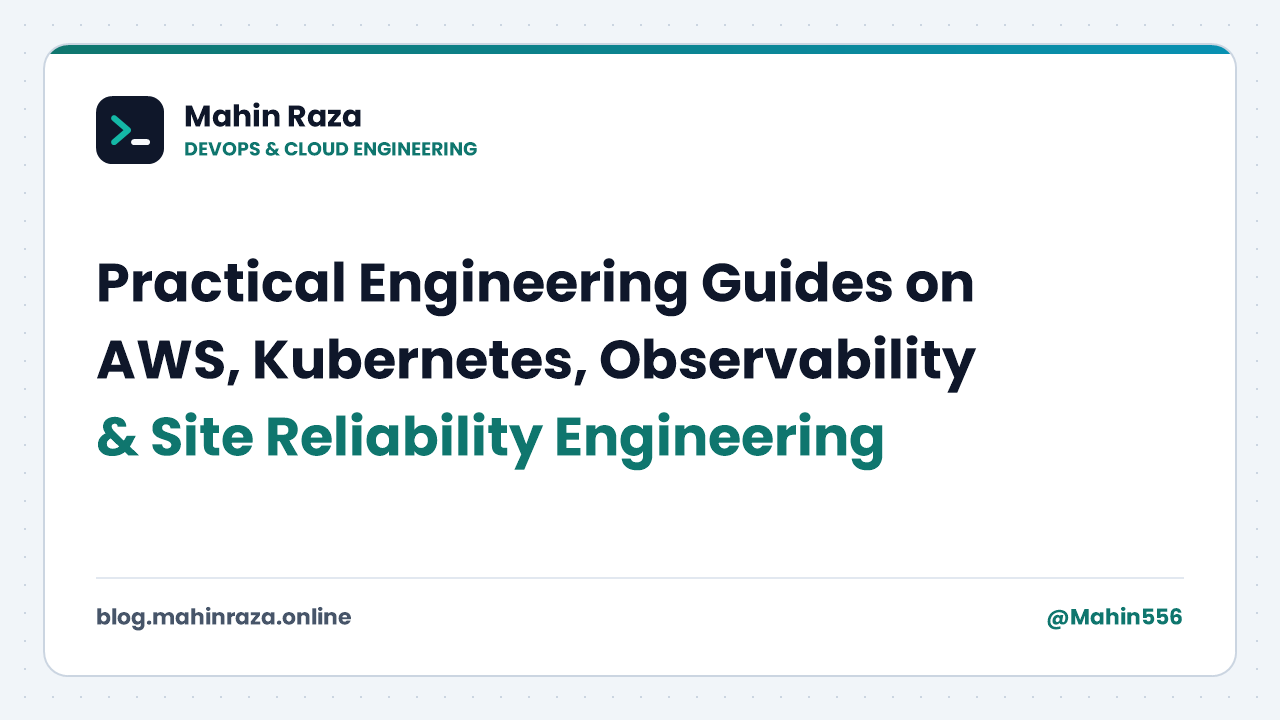
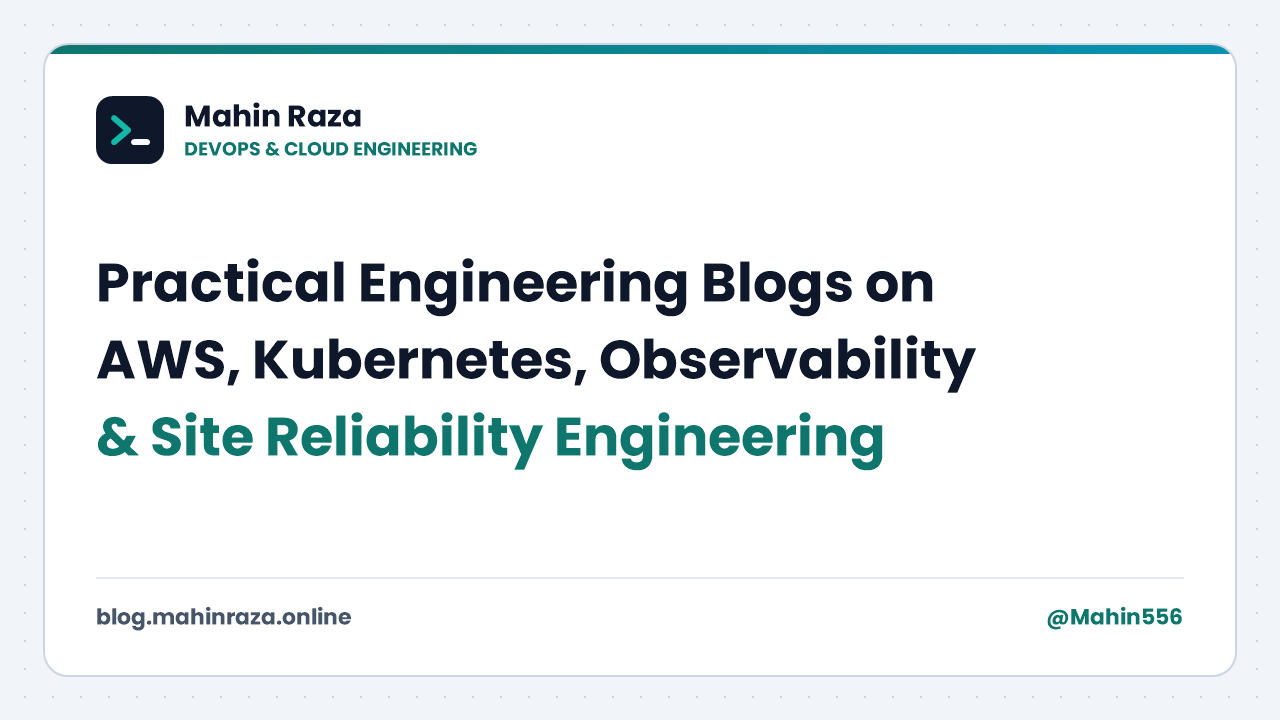
refactor: Update terminology from "Guides" to "Blogs" across the application

Changed region(s): [[0.5312, 0.3667, 0.7812, 0.4583]]

diff --git a/src/lib/site.ts b/src/lib/site.ts
@@ -5,7 +5,7 @@ export const SITE_CONFIG = {
   brandName: 'Mahin Raza',
   shortRole: 'DevOps & Cloud Engineering',
   description:
-    'Practical engineering guides on AWS, Kubernetes, Observability, OpenTelemetry, Prometheus, Incident Response, and Site Reliability Engineering by Mahin Raza.',
+    'Practical engineering blogs on AWS, Kubernetes, Observability, OpenTelemetry, Prometheus, Incident Response, and Site Reliability Engineering by Mahin Raza.',
   repoUrl: 'https://github.com/Mahin556/mahinraza.online',
   githubProfileUrl: 'https://github.com/Mahin556',
   portfolioUrl: 'https://mahinraza.online',
@@ -14,7 +14,7 @@ export const SITE_CONFIG = {
   author: {
     username: 'Mahin556',
     name: 'Mahin Raza',
-    bio: 'DevOps & Cloud Engineer writing practical guides on AWS, Kubernetes, Observability, OpenTelemetry, Prometheus, and Site Reliability Engineering.',
+    bio: 'DevOps & Cloud Engineer writing practical blogs on AWS, Kubernetes, Observability, OpenTelemetry, Prometheus, and Site Reliability Engineering.',
     avatarUrl: 'https://avatars.githubusercontent.com/Mahin556?s=160',
     githubUrl: 'https://github.com/Mahin556',
   },

diff --git a/src/scripts/generate-template.ts b/src/scripts/generate-template.ts
@@ -132,7 +132,7 @@ function generateTemplates() {
   dCtx.fillStyle = '#0f172a';
   dCtx.font = '700 56px "Poppins"';
   dCtx.textBaseline = 'top';
-  dCtx.fillText('Practical Engineering Guides on', 96, 245);
+  dCtx.fillText('Practical Engineering Blogs on', 96, 245);
   dCtx.fillText('AWS, Kubernetes, Observability', 96, 322);
   dCtx.fillStyle = '#0f766e';
   dCtx.fillText('& Site Reliability Engineering', 96, 399);

diff --git a/tools/social-card-generator.html b/tools/social-card-generator.html
@@ -352,7 +352,7 @@
         }
 
         // 8. Title lines
-        const rawTitle = titleInput.value || 'Untitled Engineering Guide';
+        const rawTitle = titleInput.value || 'Untitled Engineering Blog';
         ctx.font = '700 ' + fontSize + 'px "Poppins", Inter, sans-serif';
         const lines = wrapText(ctx, rawTitle, 1088).slice(0, 4);
         const lineHeight = Math.round(fontSize * 1.37);

diff --git a/src/lib/posts.ts b/src/lib/posts.ts
@@ -631,7 +631,7 @@ export function getAllCategories(): TaxonomyItem[] {
         name: post.category,
         slug: post.categorySlug,
         count: 1,
-        description: `Articles and guides in ${post.category}.`,
+        description: `Articles and blogs in ${post.category}.`,
       });
     }
   }
